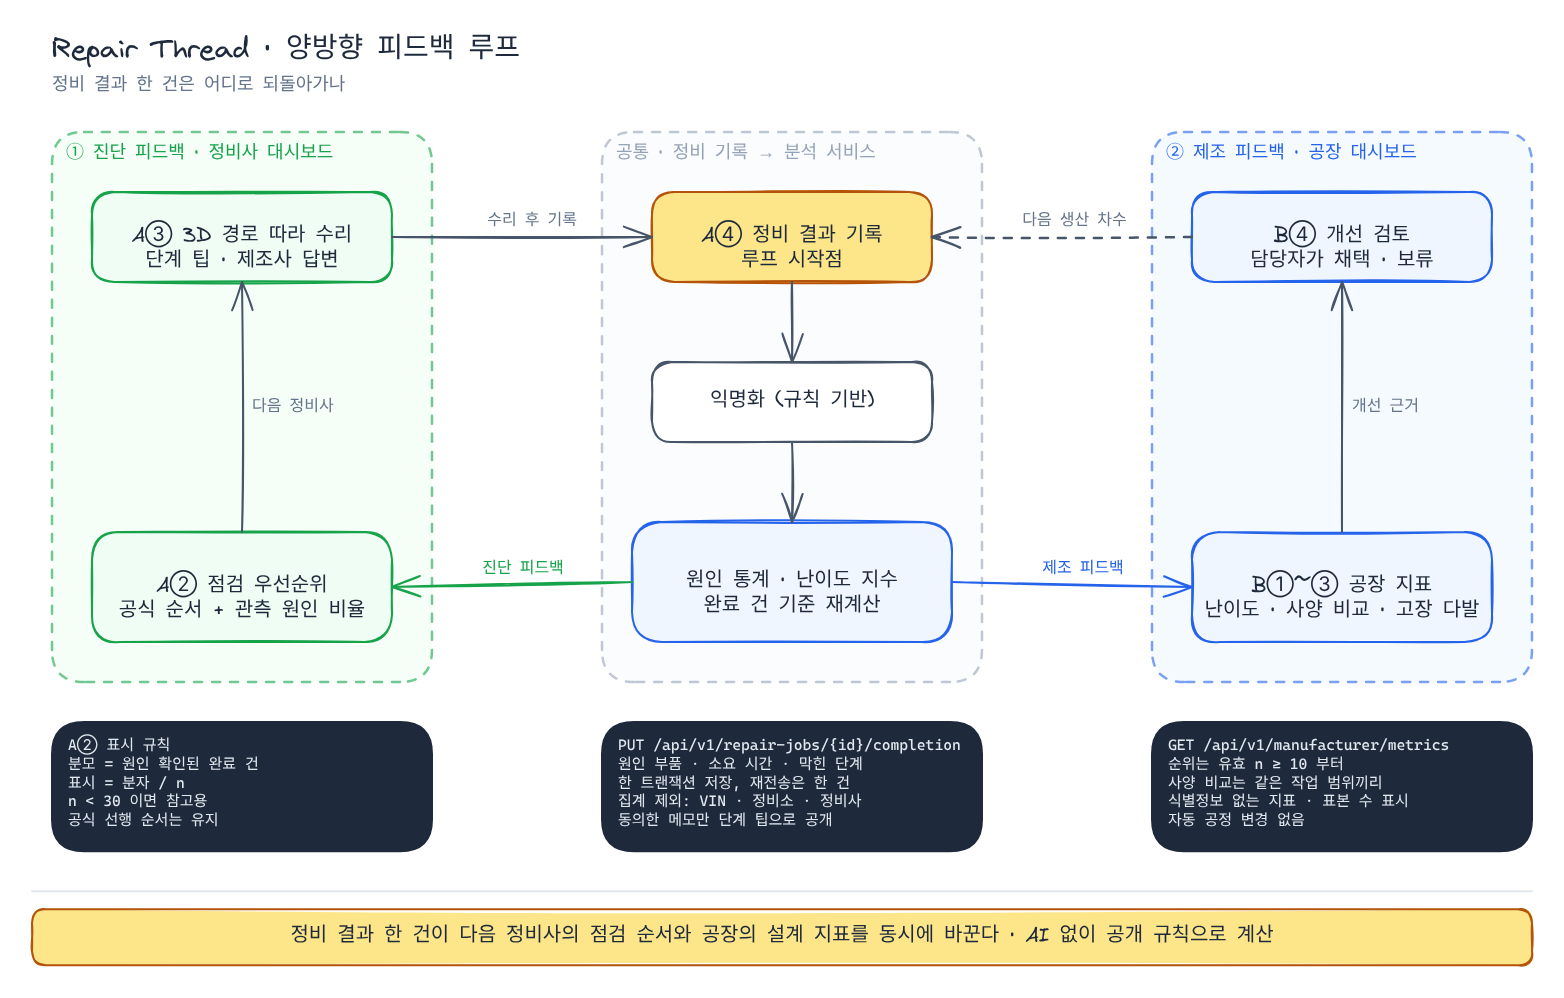
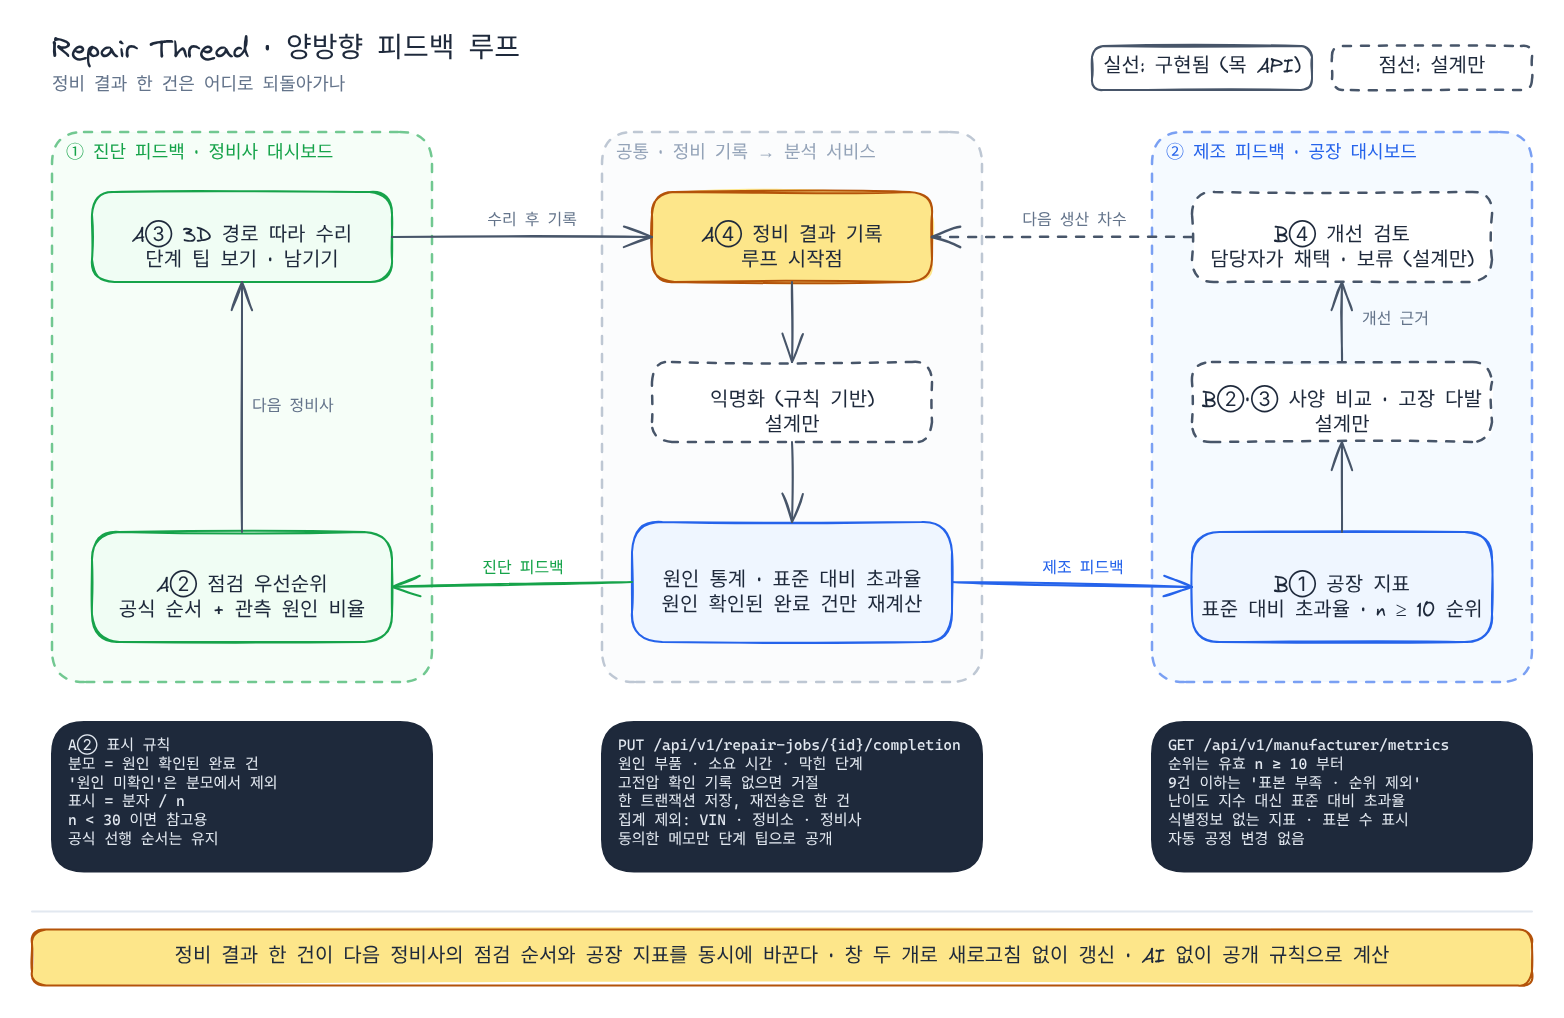
docs: 피드백 루프에 팁 남기기·고전압 거절·구현 상태 반영
- A③ 단계 팁 보기·남기기, A④ 고전압 확인 없으면 거절, 원인 미확인은 분모에서 제외
- B① 표준 대비 초과율과 유효 n ≥ 10 순위 (난이도 지수 대신)
- 실선 = 구현됨(목 API), 점선 = 설계만 (익명화, B②·B③, B④) 범례 추가

Closes #16

Claude-Session: https://claude.ai/code/session_014R51HkAxQNUEAujjDtMXPZ

diff --git a/README.md b/README.md
@@ -97,10 +97,11 @@ npm run build   # tsc -b + vite build
 
 ## 2. Solution & Experience
 
-![정비 결과 한 건이 진단 피드백(정비사)과 제조 피드백(공장) 두 방향으로 되돌아가는 루프](docs/images/feedback-loop.png)
+![정비 결과 한 건이 진단 피드백(정비사)과 제조 피드백(공장) 두 방향으로 되돌아가는 루프. 점선 상자는 설계만 한 부분](docs/images/feedback-loop.png)
 
 - **진단 피드백 (왼쪽)**: 기록이 쌓일수록 다음 정비사가 보는 관측 원인 비율이 정확해짐
 - **제조 피드백 (오른쪽)**: 같은 기록이 공장 지표가 되어 개선 검토의 근거가 되고, 다음 생산 차수로 이어짐
+- 실선은 지금 목 API로 동작하는 부분, 점선(익명화, B②·B③ 사양 비교·고장 다발, B④ 개선 검토)은 설계만 한 부분
 
 ### 핵심 기능 3개
 
